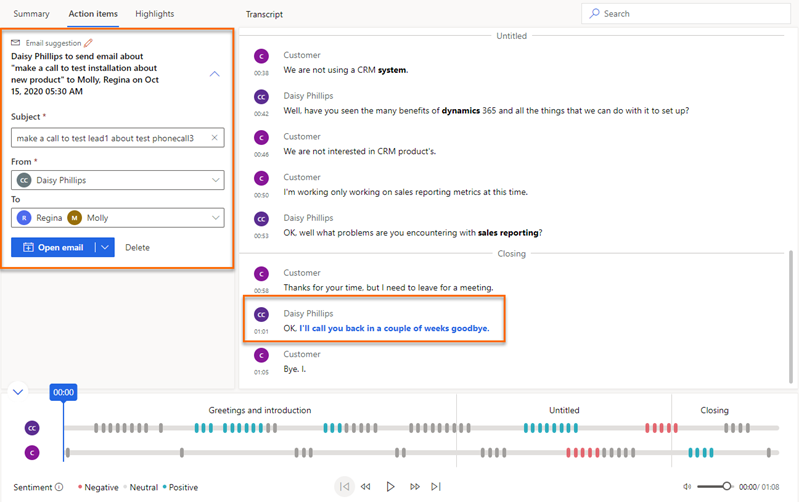
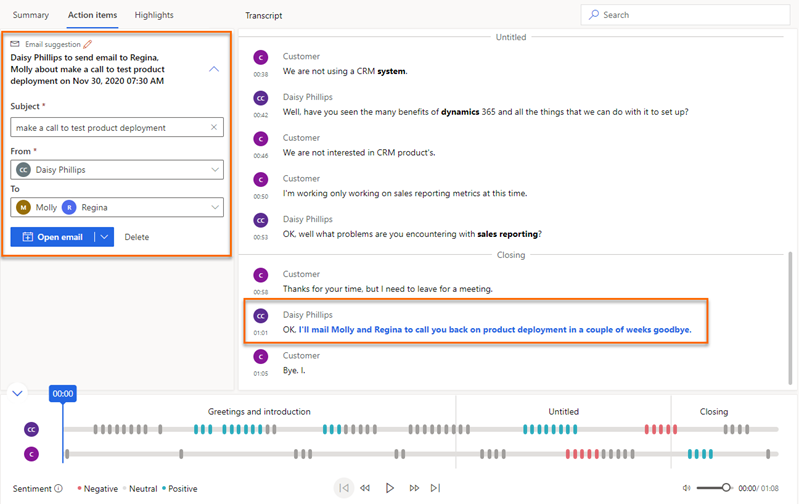
updated

diff --git a/ai-docs/sales/view-and-understand-call-summary.md b/ai-docs/sales/view-and-understand-call-summary.md
@@ -59,7 +59,7 @@ Typically, a call summary page can be divided into the following sections:
 
 - **Action items tab**: Displays the list of actionable items mentioned during the call where sellers required to keep track on after interacting with a customer. For example, **I'll send you an email** or **I'll follow up with Michelle tomorrow**. When you select an action item, you can see where it was mentioned on the timeline. The actionable items include: Send an email, set up a meeting, create a task, and set up a call.  
 
-    - **Set up a call**: If there is a mention about calling in the transcript, the application analyzes the transcript and displays a suggestion to create a call. Also, the transcript is highlighted in Blue to show for which the call must be created. Enter the details:  
+    - **Set up a call**: If there is a mention related to call in the transcript, the application analyzes the transcript and displays a suggestion to create a call. Also, the transcript is highlighted in Blue to show for which the call must be created. Enter the details:  
         - **Subject**: Provides an understanding on what the call is about for sellers who are viewing it. 
         - **From**: Select the name of the seller. The selected seller will make a call to the contact that you add in **To** field.   
         - **To**: Select the name of the customer for who the seller must make the call.
@@ -68,7 +68,7 @@ Typically, a call summary page can be divided into the following sections:
         Select **Create** and the call activity is created. The call activity can be viewed under the activities of the attached record entity and the seller's activity list.
         >[!NOTE]
         >- While setting up a call, if you want to enter more details, select the down arrow icon corresponding to **Create** and select **Create and Edit**. Also, If you think it is more related to a task than a call, select **Create task**.   
-        >- If you don't want to create a task, select **Delete**.  
+        >- If you don't want to create a call activity, select **Delete**.  
         > [!div class="mx-imgBorder"]
         > ![Set up a task](media/ci-action-item-setup-call.png "Set up a task")   
         When the call activity is created, select the call under **See call** and the call activity is opened in a browser tab.  
@@ -76,34 +76,37 @@ Typically, a call summary page can be divided into the following sections:
     - **Create a task**: If there is a mention about a piece of work that the seller must perform in the transcript, the application analyzes the transcript and displays a suggestion to create a task. Also, the transcript is highlighted in Blue to show for which the task must be created. Enter the details:  
         - **Subject**: Provides an understanding on what the task is for sellers who are viewing it. 
         - **Owner**: Select the owner of the task from the list.
-        - **Set date**: Select a date in which the task must be completed.
+        - **Date and time**: Select a date in which the task must be completed.
         - **Regarding field**: Select a record from an entity that specifies what the task is about, such as opportunity, lead, contact, or account, which provides you with relevant information.  
         Select **Create** and the task activity is created. The task activity can be viewed under the activities of the attached record entity and the owner's activity list.   
         >[!NOTE]
         >- While creating the task activity, if you want to enter more details, select **Create and Edit**.
-        >- If you don't want to create a task, select **Delete**.   
+        >- If you don't want to create a task activity, select **Delete**.   
         > [!div class="mx-imgBorder"]
         > ![Create a task](media/ci-action-item-create-task.png "Create a task")      
         When the task activity is created, select the task under **See task** and the task activity is opened in a browser tab.     
 
-    - **Send an email**: If there is a mention about calling in the transcript, the application analyzes the transcript and displays a suggestion to create a call. Also, the transcript is highlighted in Blue to show for which the call must be created. Enter the details:  
-        - **Subject**: Provides an understanding on what the call is about for sellers who are viewing it. 
-        - **From**: Select the name of the seller. The selected seller will make a call to the contact that you add in **To** field.   
-        - **To**: Select the name of the customer for who the seller must make the call.
-        - **Set date**: Select a date and time on which the call must be made.
-        - **Regarding field**: Select a record from an entity that specifies what the call is about, such as opportunity, lead, contact, or account, which provides you with relevant information.   
-        Select **Create** and the call activity is created. The call activity can be viewed under the activities of the attached record entity and the seller's activity list.
+    - **Send an email**: If there is a mention related to email in the transcript, the application analyzes the transcript and displays a suggestion to send an email. Also, the transcript is highlighted in Blue to show for which the email must be sent. Enter the details:  
+        - **Subject**: Provides an understanding on what the email is about for users who are receiving it. 
+        - **From**: By default, the name of the seller who participated in the call is selected.    
+        - **To**: Select the recipients for whom you want to send the email.
+        Select **Open email** and your configured email editor is opened. Compose the email and send. 
         >[!NOTE]
-        >- While setting up a call, if you want to enter more details, select the down arrow icon corresponding to **Create** and select **Create and Edit**. Also, If you think it is more related to a task than a call, select **Create task**.   
-        >- If you don't want to create a task, select **Delete**.  
+        >- If you think it is more related to a task than an email, select **Create task**.   
+        >- If you don't want to send an email, select **Delete**.  
         > [!div class="mx-imgBorder"]
         > ![Send an email](media/ci-action-item-send-email.png "Send an email")   
-        When the call activity is created, select the call under **See call** and the call activity is opened in a browser tab.  
-
-
-    - **Set up a meeting**:                 
-
-
+         
+    - **Set up a meeting**: If there is a mention related to a meeting in the transcript, the application analyzes the transcript and displays a suggestion to set up a meeting. Also, the transcript is highlighted in Blue to show for which the meeting must be set up. Enter the details:  
+        - **Subject**: Provides an understanding on what the task is for sellers who are viewing it. 
+        - **Owner**: By default, the name of the seller who participated in the call is selected.
+        - **To**: Select the recipients for whom you want to send the email.
+        - **Date and time**: Select a date and time on which you want to schedule the meeting.
+        Select **Open calendar** and the meeting activity is opened in your configured calendar.    
+        >[!NOTE]
+        >- If you think it is more related to a task than an meeting, select **Create task**.   
+        > [!div class="mx-imgBorder"]
+        > ![Set up a meeting](media/ci-action-item-setup-meeting.png "Set up a meeting")      
 
 - **Highlights tab**: Displays relevant talking points that were mentioned during the call.  
     - **Tracked keywords**: Displays the predefined keywords that customers mentioned during the call. When you select a keyword, you can see where it was mentioned on the timeline.  
@@ -140,7 +143,7 @@ The following image is an example of playback section:
 > [!div class="mx-imgBorder"]
 > ![Playback timeline with segmentation](media/ci-summary-playback.png "Playback timeline with segmentation")     
 
-Using the call playback feature, you can play and listen to the recorded call audio. Also, you can drag the progress bar or click at a specific point on timeline from where you want to listen. The call transcript will automatically scroll to that moment in the call. You can also pause the call, rewind, forward, and adjust volume as required.  
+Using the call playback feature, you can play and listen to the recorded call audio. Also, you can drag the progress bar or select at a specific point on timeline from where you want to listen. The call transcript will automatically scroll to that moment in the call. You can also pause the call, rewind, forward, and adjust volume as required.  
 The playback timeline displays the sentiments highlighted (such as positive, neutral, and negative).  
 
 When you go to **Highlights** tab and select a keyword or any other highlights, diamond icons appear on the playback timeline specifying that the selected highlight is mentioned at that time.  Also, hover over on a keyword displays a Gray diamond icon.  
